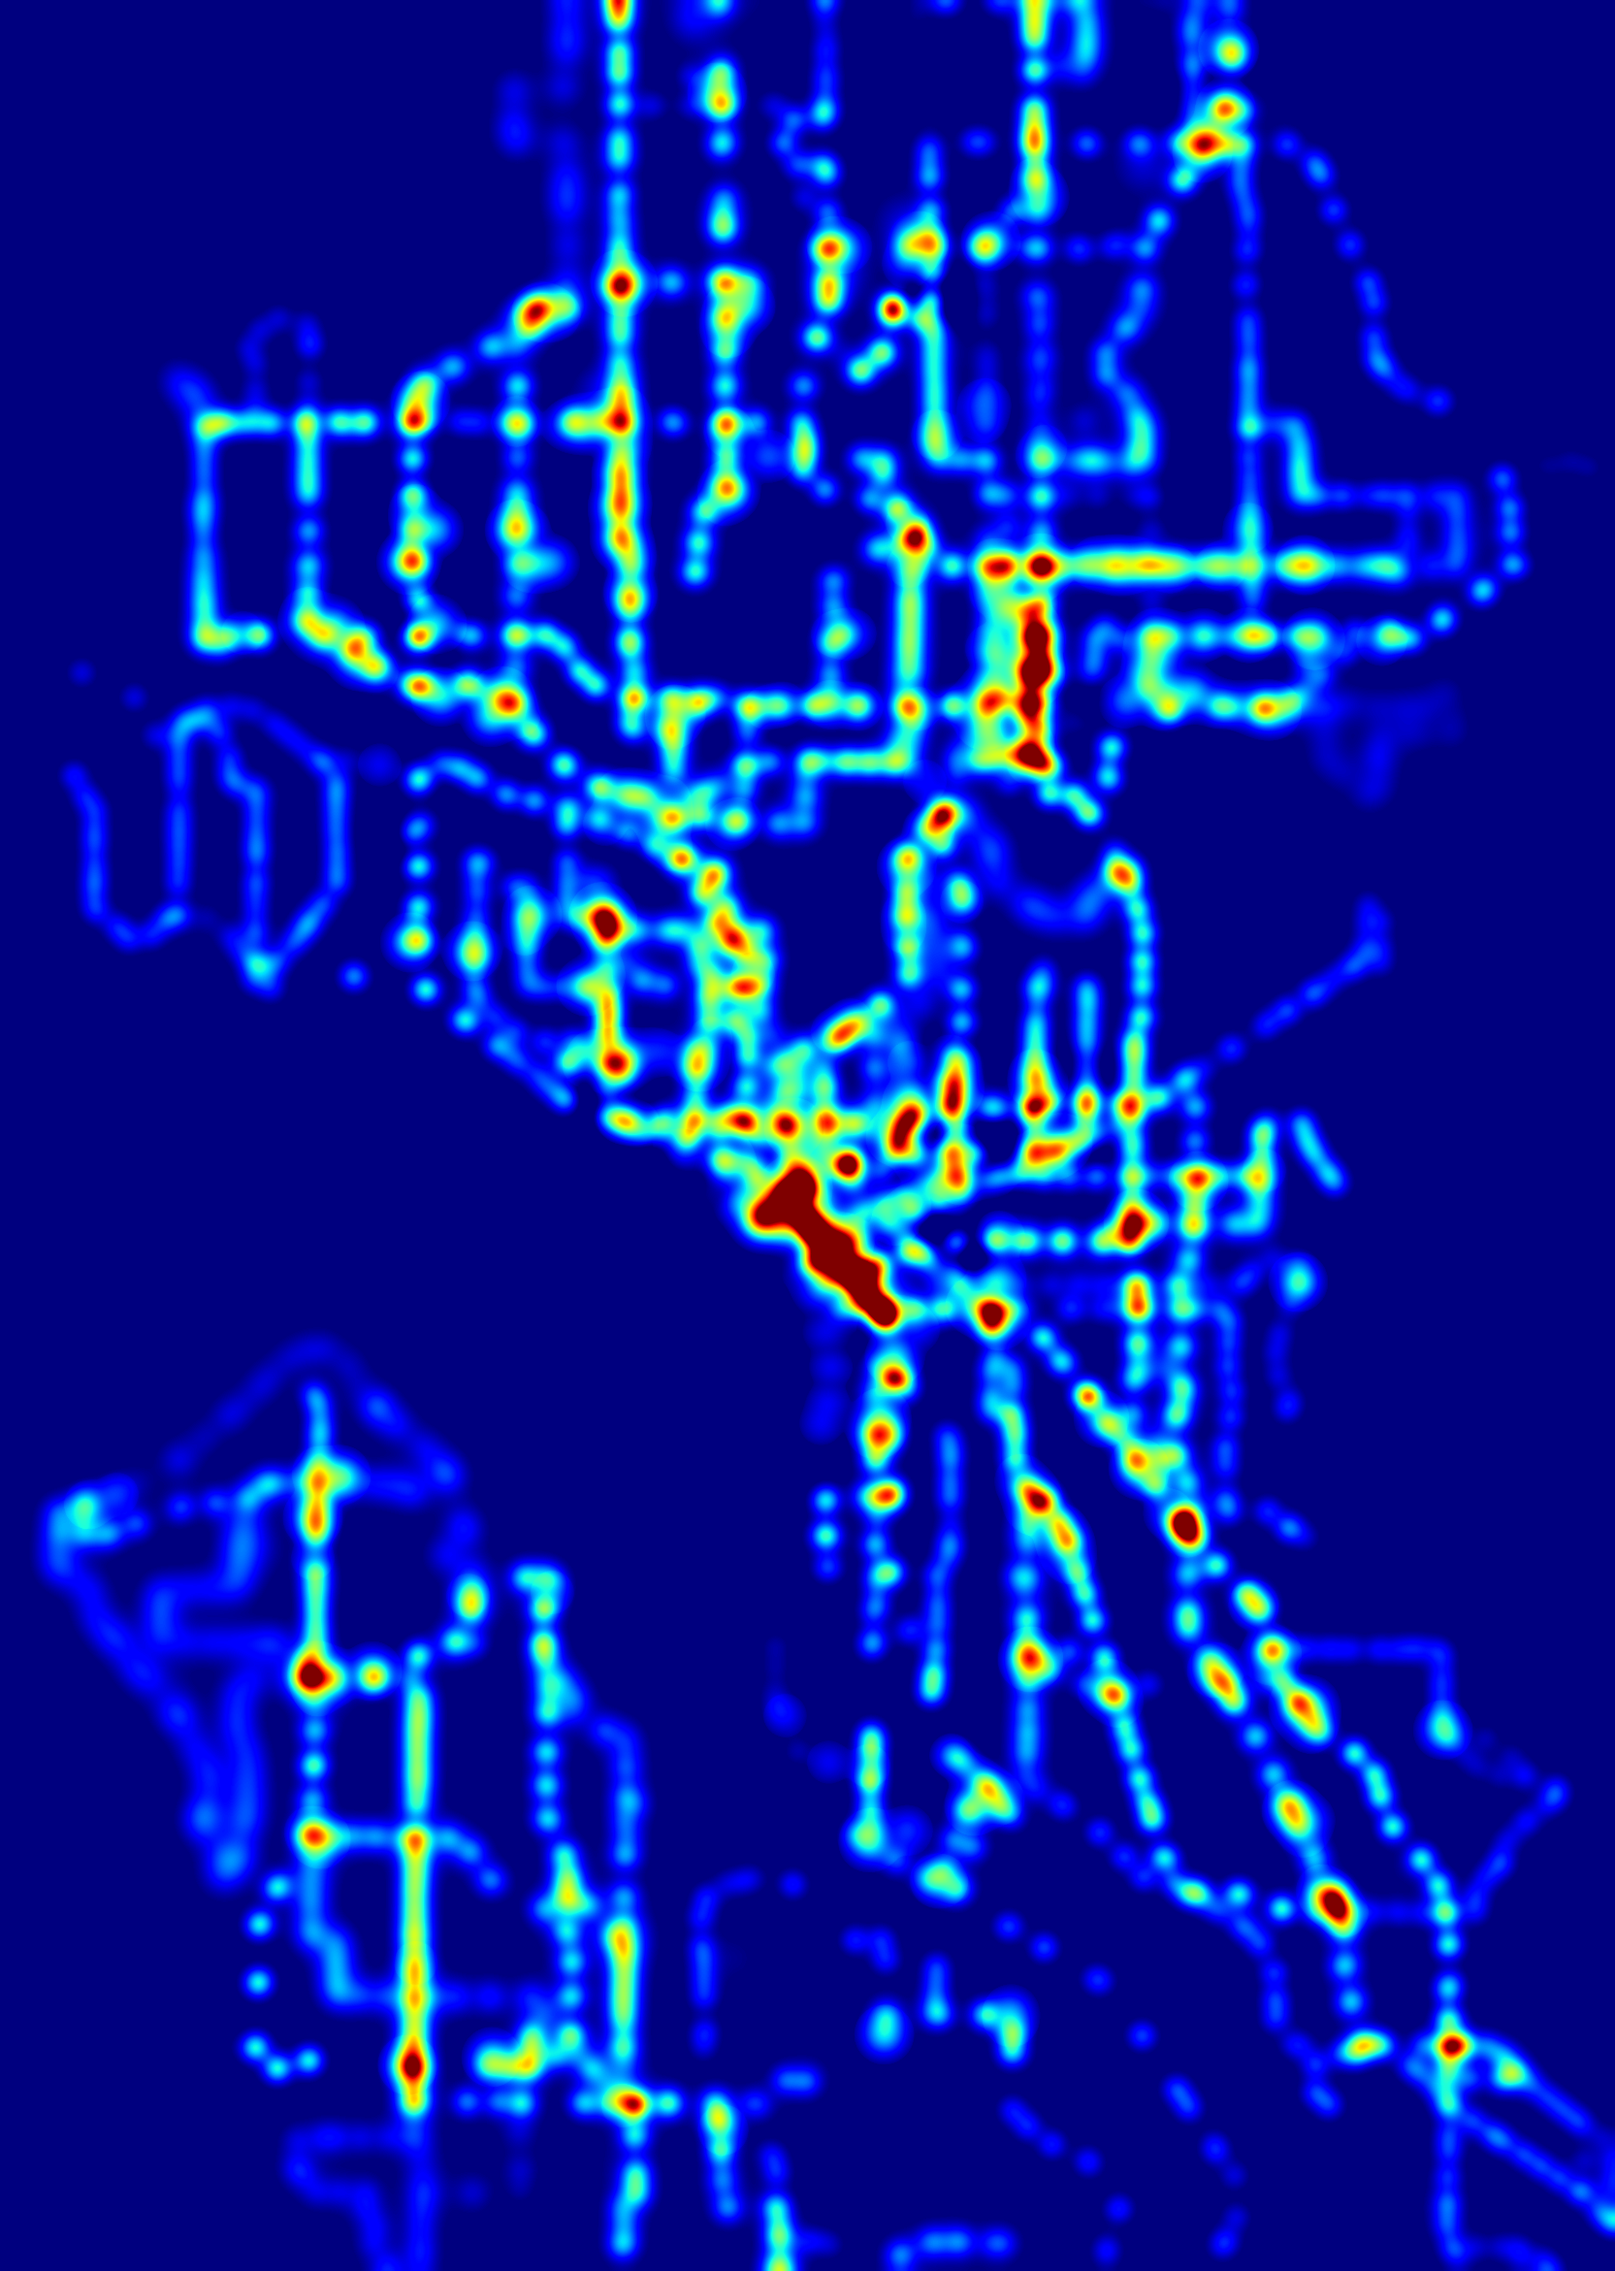
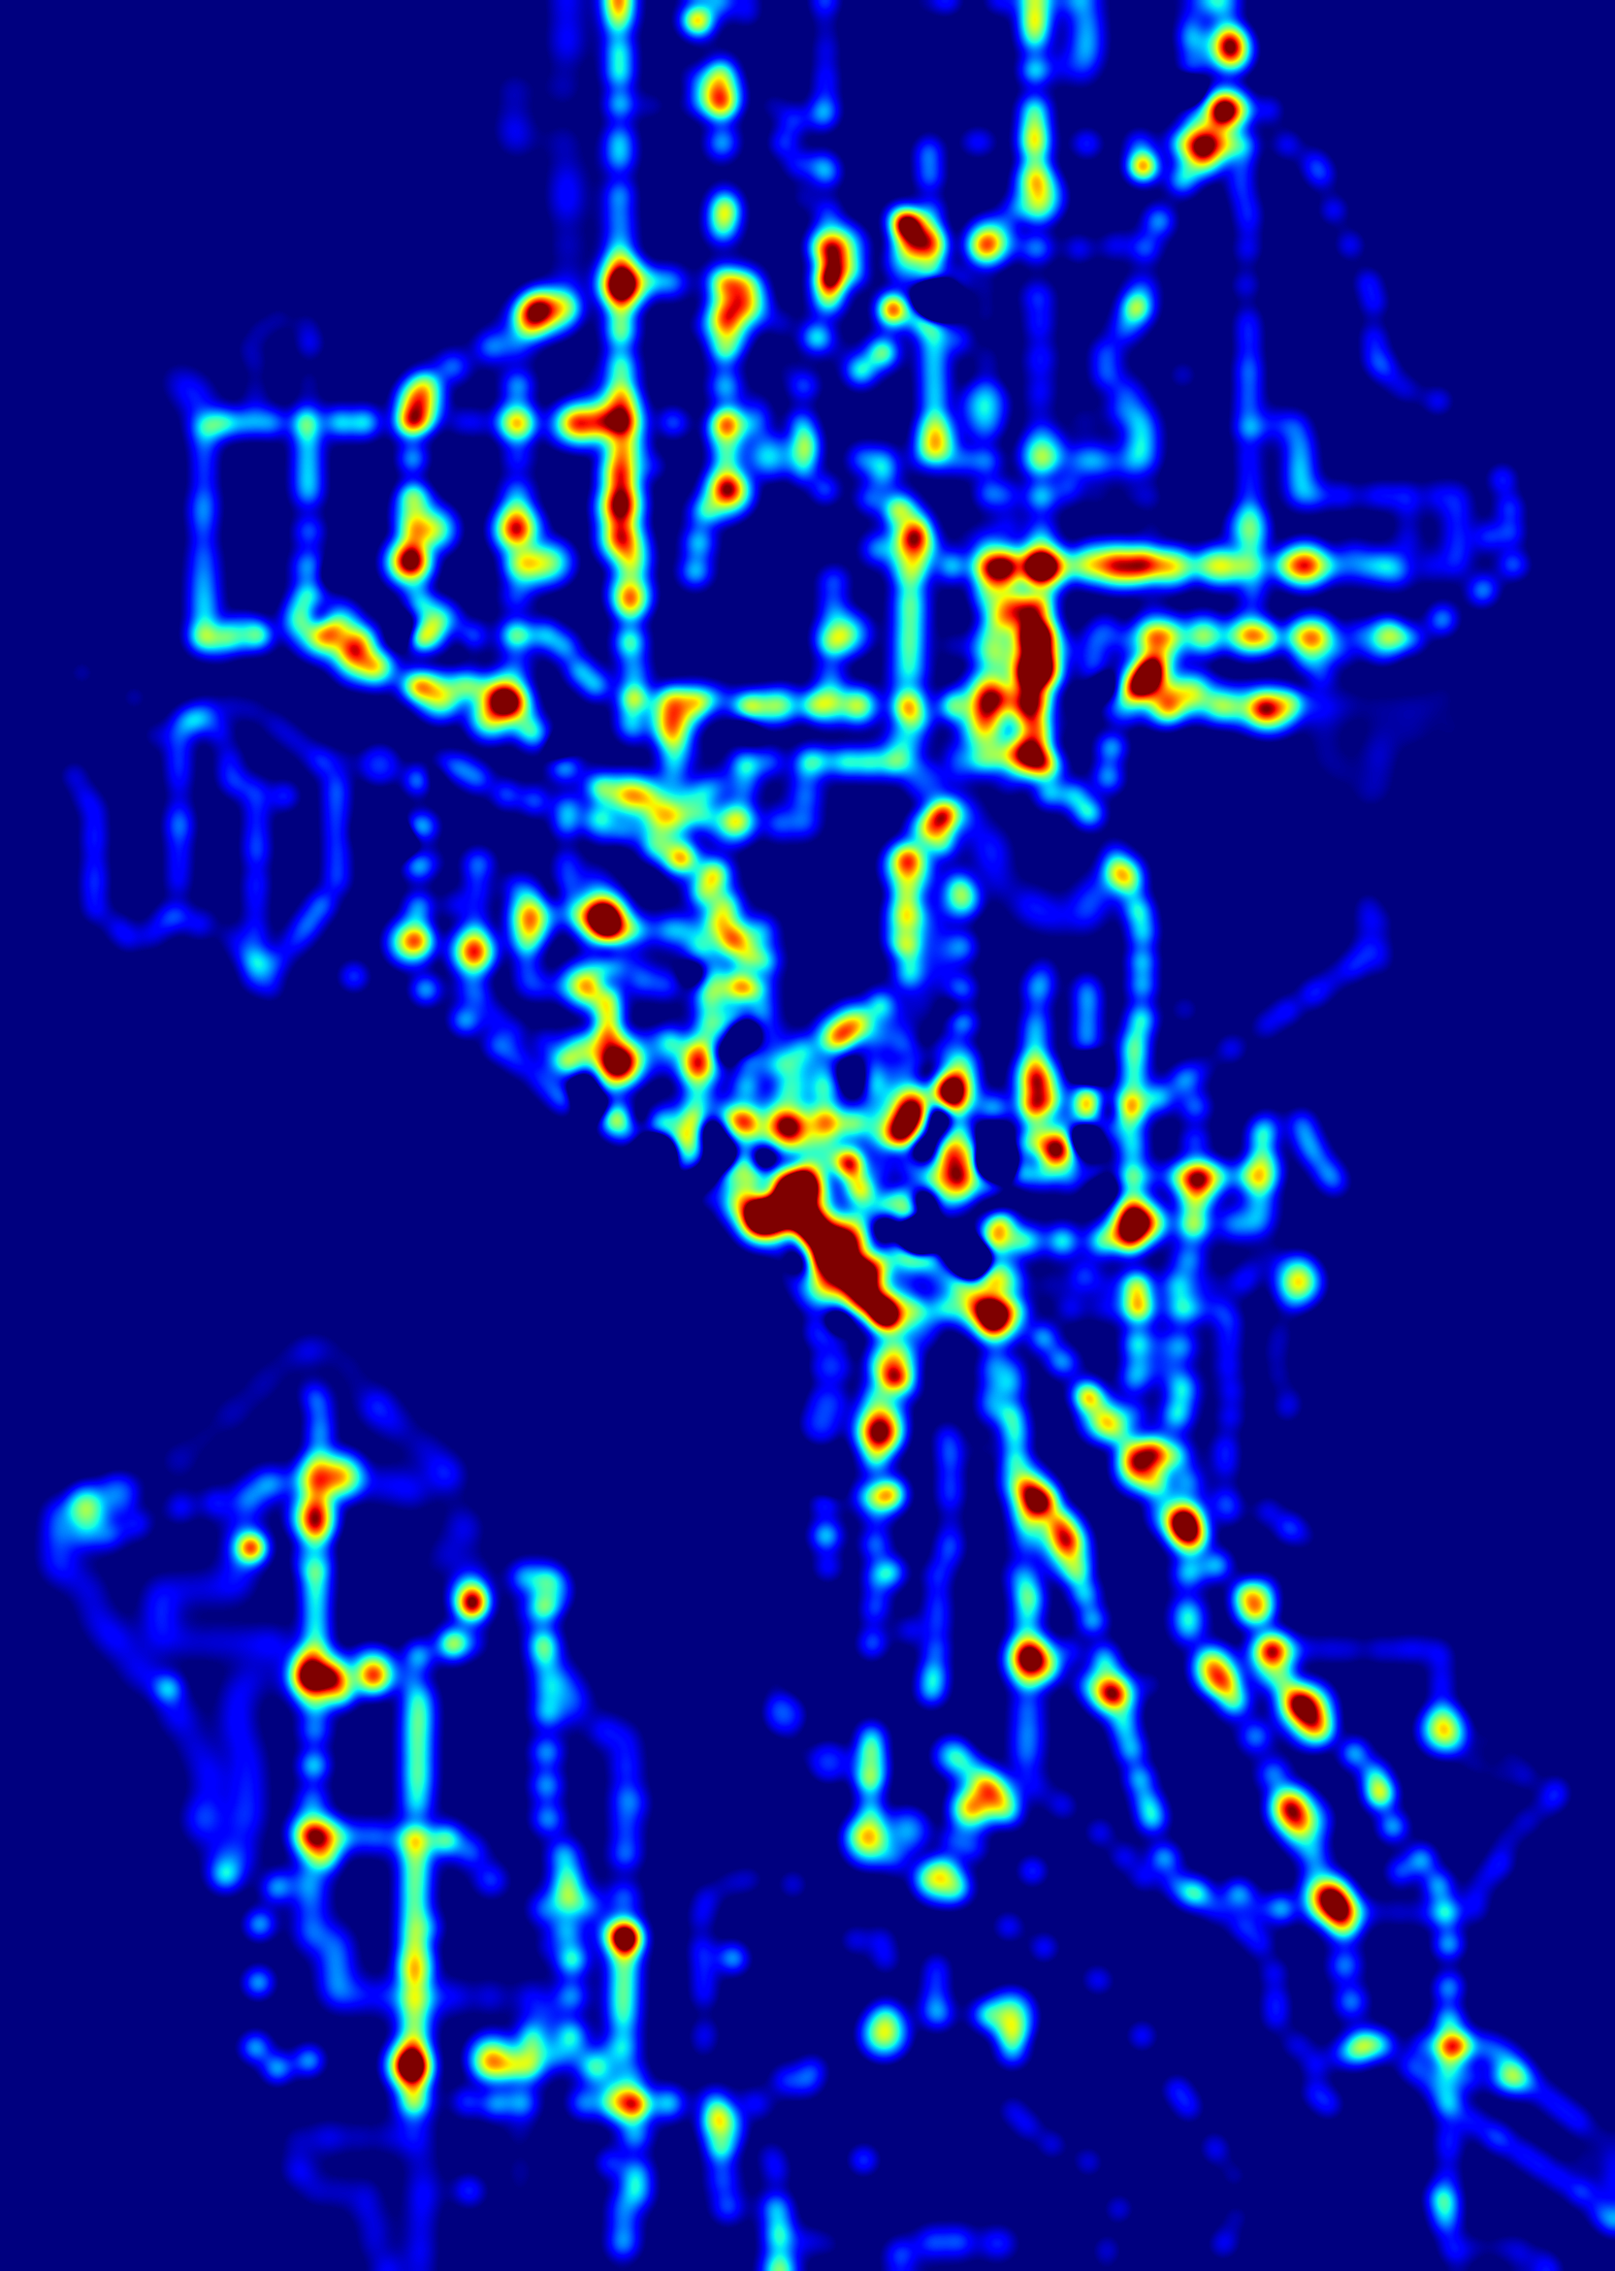
Modified weight on acm so it actually shows up in final matrix. Lookin' good

diff --git a/presentation/gen_image.py b/presentation/gen_image.py
@@ -135,7 +135,7 @@ def generate_apartment_cost_matrix(boundaries, sig_digits):
 
 	#This will create a negative value for apartments above the price / sqft median
 	#and positive for those above it
-	cost = [[cost_data[0], cost_data[1], (prices_per_sqft_median - (cost_data[2] / float(cost_data[3]))) * 48] for cost_data in cost_raw]
+	cost = [[cost_data[0], cost_data[1], (prices_per_sqft_median - (cost_data[2] / float(cost_data[3]))) * 128] for cost_data in cost_raw]
 
 	acm = generate_matrix(boundaries, sig_digits, cost, accumulate_matrix_value)
 
@@ -153,32 +153,39 @@ sig_digits = 4
 
 print("Creating apartment cost matrix")
 acm = generate_apartment_cost_matrix(boundaries, sig_digits)
-acm_filtered = gaussian_filter(acm , 20)
-imsave("acm.tiff", acm_filtered)
+acm_filtered = gaussian_filter(acm , 10)
+print(median(acm_filtered[acm_filtered != 0]))
+print(acm_filtered.max())
+imsave("acm.png", acm_filtered)
 
 print("Creating general transit matrix")
 gtm = generate_general_transit_matrix(boundaries, sig_digits)
 gtm_norm = normalize_image(gtm, 64, 128)
 gtm_norm_filtered = gaussian_filter(gtm_norm, 10)
-imsave("gtm_norm.tiff", gtm_norm_filtered)
+print(median(gtm_norm_filtered[acm_filtered != 0]))
+print(gtm_norm_filtered.max())
+imsave("gtm_norm.png", gtm_norm_filtered)
 
 print("Creating neighborhood destination transit matrix")
 neighborhoods = ["South Lake Union", "Delridge"]
 ndtm = generate_neighborhood_destination_transit_matrix(boundaries, sig_digits, neighborhoods)
 ndtm_filtered = gaussian_filter(ndtm, 15)
-imsave("ndtm_norm.tiff", ndtm_filtered)
+print(median(ndtm_filtered[ndtm_filtered != 0]))
+print(ndtm_filtered.max())
+imsave("ndtm_norm.png", ndtm_filtered)
 
 print("Creating business quality matrix")
 
 categories = [['markets', 5] , ['grocery' , 2] , ['restaurants' , .5] , ['bars' , .2]]
 bqm = generate_business_quality_matrix(boundaries, sig_digits, categories)
 bqm_filtered = gaussian_filter(bqm, 10)
-imsave("bqm_filtered.png", bqm_filtered)
 bqm_filtered = gaussify_histogram(bqm_filtered)
+print(median(bqm_filtered[bqm_filtered != 0]))
+print(bqm_filtered.max())
 imsave("bqm_norm.png", bqm_filtered)
 
 cmap = get_cmap('jet')
 
 print("Creating final image")
-total_norm = gtm_norm_filtered + ndtm_filtered + acm_filtered + bqm_filtered
+total_norm = gaussian_filter(gtm_norm_filtered + ndtm_filtered + acm_filtered + bqm_filtered , 5)
 imsave("total.png", cmap(total_norm))
